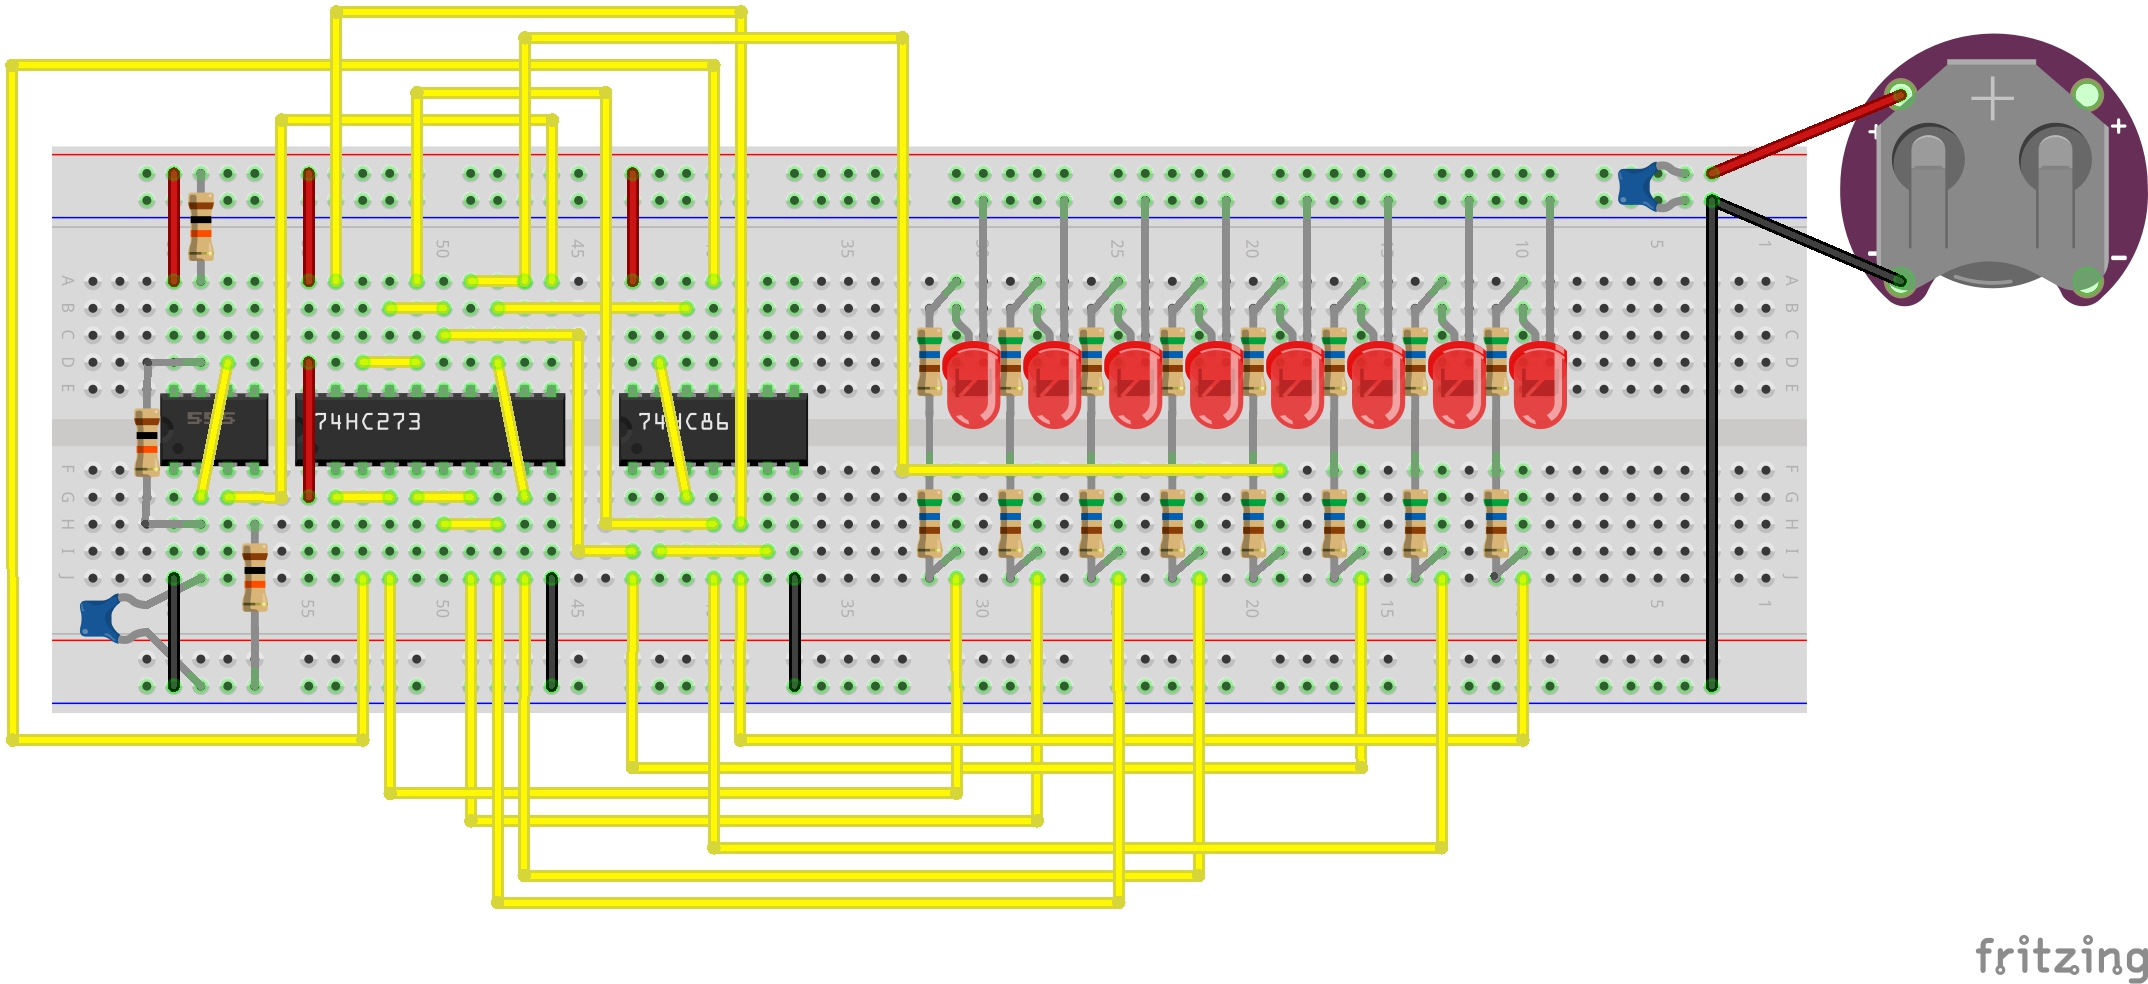
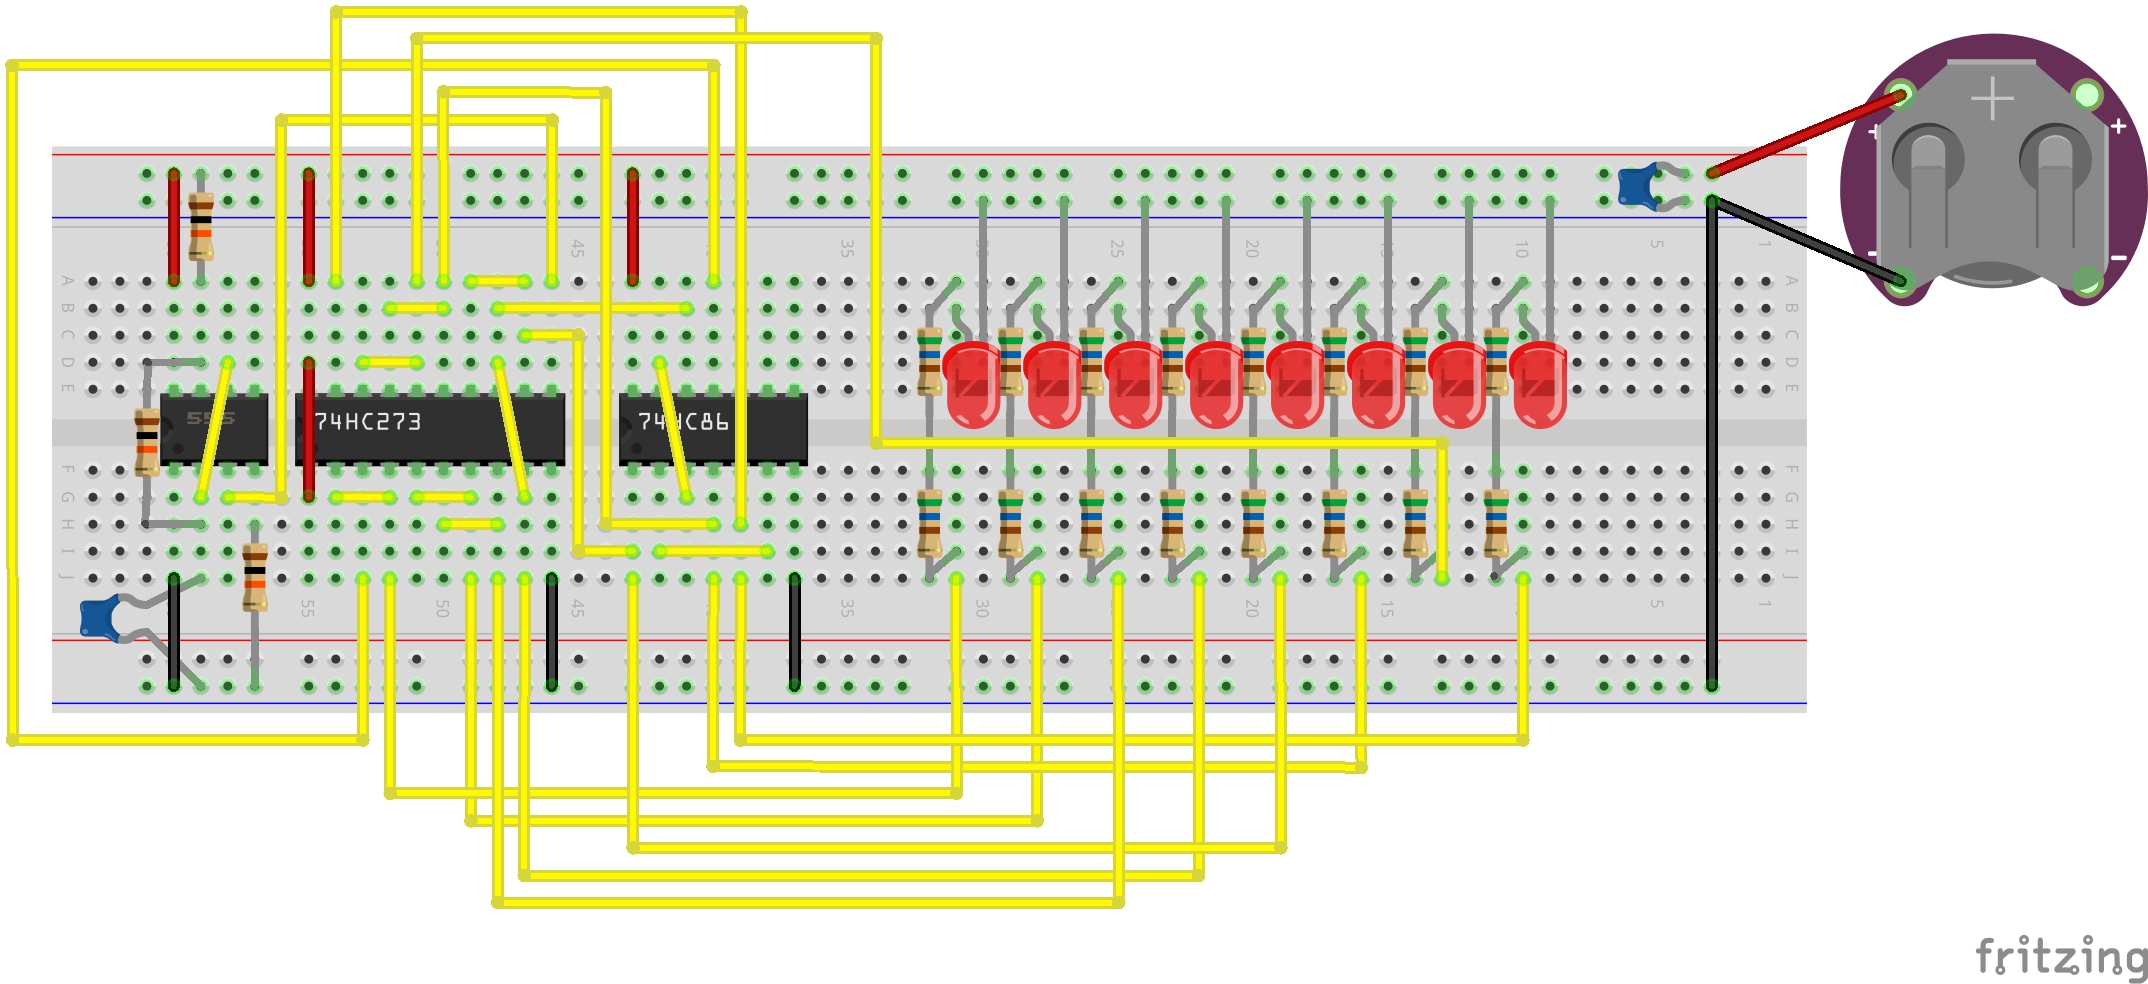
[monarch] fix the LFSR and schematic

Changed region(s): [[0.2807, 0.0305, 0.6862, 0.8841], [0.1872, 0.0305, 0.2495, 0.3049], [0.1872, 0.3354, 0.2495, 0.3659]]

diff --git a/BoldportClub/TheMonarch/lfsr.py b/BoldportClub/TheMonarch/lfsr.py
@@ -1,8 +1,8 @@
 #!/usr/bin/env python
 """ Simulate The Monarch's LFSR function.
 
-The Monarch has taps at bit position 3,5,6,7
-i.e. feedback polynomial: x^8 + x^7 + x^6 + x^4 + 1
+The Monarch has taps at registers 8, 6, 5, 4
+i.e. feedback polynomial: x^8 + x^6 + x^5 + x^4 + 1
 """
 from sys import argv
 import collections
@@ -18,20 +18,36 @@ def print_step(clock, data):
 
 
 def calculate_next_step(data):
-    """ Command: calculates the data frame.
+    """ Command: calculates the next data frame.
     Hard-codes the specific taps as used by The Monarch
     """
-    next_value = (data[7] ^ data[6] ^ data[5] ^ data[3]) & 1
+    next_value = (data[7] ^ data[5] ^ data[4] ^ data[3]) & 1
     data.rotate(1)
     data[0] = next_value
 
 
 def run(iterations):
-    bits = collections.deque([1] * 8)
+    """ Command: runs the simulation.
+    If iterations is > 0, runs for the specified number of steps.
+    If iterations is < 1, runs until a full cycle complete.
+    """
+    initial_values = [1] * 8
+    bits = collections.deque(initial_values)
     print_header(bits)
-    for i in range(iterations):
-        print_step(i, bits)
-        calculate_next_step(bits)
+    if iterations > 0:
+        for i in range(iterations):
+            print_step(i, bits)
+            calculate_next_step(bits)
+    else:
+        initial_bits = collections.deque(initial_values)
+        i = 0
+        while True:
+            print_step(i, bits)
+            calculate_next_step(bits)
+            i += 1
+            if bits == initial_bits:
+                print_step(i, bits)
+                break
 
 
 if __name__ == '__main__':

diff --git a/BoldportClub/TheMonarch/README.md b/BoldportClub/TheMonarch/README.md
@@ -71,37 +71,52 @@ Which outputs (for the first 32 steps)..
 |    3 |   0 |  0 |  0 |  1 |  1 |  1 |  1 |  1 |
 |    4 |   0 |  0 |  0 |  0 |  1 |  1 |  1 |  1 |
 |    5 |   1 |  0 |  0 |  0 |  0 |  1 |  1 |  1 |
-|    6 |   1 |  1 |  0 |  0 |  0 |  0 |  1 |  1 |
-|    7 |   0 |  1 |  1 |  0 |  0 |  0 |  0 |  1 |
-|    8 |   1 |  0 |  1 |  1 |  0 |  0 |  0 |  0 |
-|    9 |   1 |  1 |  0 |  1 |  1 |  0 |  0 |  0 |
-|   10 |   1 |  1 |  1 |  0 |  1 |  1 |  0 |  0 |
-|   11 |   1 |  1 |  1 |  1 |  0 |  1 |  1 |  0 |
-|   12 |   1 |  1 |  1 |  1 |  1 |  0 |  1 |  1 |
-|   13 |   1 |  1 |  1 |  1 |  1 |  1 |  0 |  1 |
-|   14 |   1 |  1 |  1 |  1 |  1 |  1 |  1 |  0 |
-|   15 |   1 |  1 |  1 |  1 |  1 |  1 |  1 |  1 |
-|   16 |   0 |  1 |  1 |  1 |  1 |  1 |  1 |  1 |
-|   17 |   0 |  0 |  1 |  1 |  1 |  1 |  1 |  1 |
-|   18 |   0 |  0 |  0 |  1 |  1 |  1 |  1 |  1 |
-|   19 |   0 |  0 |  0 |  0 |  1 |  1 |  1 |  1 |
-|   20 |   1 |  0 |  0 |  0 |  0 |  1 |  1 |  1 |
-|   21 |   1 |  1 |  0 |  0 |  0 |  0 |  1 |  1 |
-|   22 |   0 |  1 |  1 |  0 |  0 |  0 |  0 |  1 |
-|   23 |   1 |  0 |  1 |  1 |  0 |  0 |  0 |  0 |
-|   24 |   1 |  1 |  0 |  1 |  1 |  0 |  0 |  0 |
-|   25 |   1 |  1 |  1 |  0 |  1 |  1 |  0 |  0 |
-|   26 |   1 |  1 |  1 |  1 |  0 |  1 |  1 |  0 |
-|   27 |   1 |  1 |  1 |  1 |  1 |  0 |  1 |  1 |
-|   28 |   1 |  1 |  1 |  1 |  1 |  1 |  0 |  1 |
-|   29 |   1 |  1 |  1 |  1 |  1 |  1 |  1 |  0 |
-|   30 |   1 |  1 |  1 |  1 |  1 |  1 |  1 |  1 |
-|   31 |   0 |  1 |  1 |  1 |  1 |  1 |  1 |  1 |
+|    6 |   0 |  1 |  0 |  0 |  0 |  0 |  1 |  1 |
+|    7 |   1 |  0 |  1 |  0 |  0 |  0 |  0 |  1 |
+|    8 |   1 |  1 |  0 |  1 |  0 |  0 |  0 |  0 |
+|    9 |   1 |  1 |  1 |  0 |  1 |  0 |  0 |  0 |
+|   10 |   1 |  1 |  1 |  1 |  0 |  1 |  0 |  0 |
+|   11 |   0 |  1 |  1 |  1 |  1 |  0 |  1 |  0 |
+|   12 |   0 |  0 |  1 |  1 |  1 |  1 |  0 |  1 |
+|   13 |   0 |  0 |  0 |  1 |  1 |  1 |  1 |  0 |
+|   14 |   1 |  0 |  0 |  0 |  1 |  1 |  1 |  1 |
+|   15 |   1 |  1 |  0 |  0 |  0 |  1 |  1 |  1 |
+|   16 |   0 |  1 |  1 |  0 |  0 |  0 |  1 |  1 |
+|   17 |   1 |  0 |  1 |  1 |  0 |  0 |  0 |  1 |
+|   18 |   0 |  1 |  0 |  1 |  1 |  0 |  0 |  0 |
+|   19 |   0 |  0 |  1 |  0 |  1 |  1 |  0 |  0 |
+|   20 |   0 |  0 |  0 |  1 |  0 |  1 |  1 |  0 |
+|   21 |   0 |  0 |  0 |  0 |  1 |  0 |  1 |  1 |
+|   22 |   0 |  0 |  0 |  0 |  0 |  1 |  0 |  1 |
+|   23 |   0 |  0 |  0 |  0 |  0 |  0 |  1 |  0 |
+|   24 |   0 |  0 |  0 |  0 |  0 |  0 |  0 |  1 |
+|   25 |   1 |  0 |  0 |  0 |  0 |  0 |  0 |  0 |
+|   26 |   0 |  1 |  0 |  0 |  0 |  0 |  0 |  0 |
+|   27 |   0 |  0 |  1 |  0 |  0 |  0 |  0 |  0 |
+|   28 |   0 |  0 |  0 |  1 |  0 |  0 |  0 |  0 |
+|   29 |   1 |  0 |  0 |  0 |  1 |  0 |  0 |  0 |
+|   30 |   1 |  1 |  0 |  0 |  0 |  1 |  0 |  0 |
+|   31 |   1 |  1 |  1 |  0 |  0 |  0 |  1 |  0 |
 
 
 The repeating pattern is obvious. This is actually an instance of a
 [linear-feedback shift register (LFSR)](https://en.wikipedia.org/wiki/Linear-feedback_shift_register).
-Since The Monarch has XOR taps at Q4, Q6, Q7, Q8, the feedback function can be expressed as `x^8 + x^7 + x^6 + x^4 + 1`
+Since The Monarch has XOR taps at registers 8, 6, 5, 4, the feedback function can be expressed as `x^8 + x^6 + x^5 + x^4 + 1`
+
+With that function, it should repeat every 255 cycles. Which it does..
+
+```
+$ ./lfsr.py -1
+```
+
+|  CLK |  Q1 | Q2 | Q3 | Q4 | Q5 | Q6 | Q7 | Q8 |
+|------|-----|----|----|----|----|----|----|----|
+|    0 |   1 |  1 |  1 |  1 |  1 |  1 |  1 |  1 |
+|    1 |   0 |  1 |  1 |  1 |  1 |  1 |  1 |  1 |
+|    2 |   0 |  0 |  1 |  1 |  1 |  1 |  1 |  1 |
+|  ... |     |    |    |    |    |    |    |    |
+|  254 |   1 |  1 |  1 |  1 |  1 |  1 |  1 |  0 |
+|  255 |   1 |  1 |  1 |  1 |  1 |  1 |  1 |  1 |
 
 
 ### Construction
